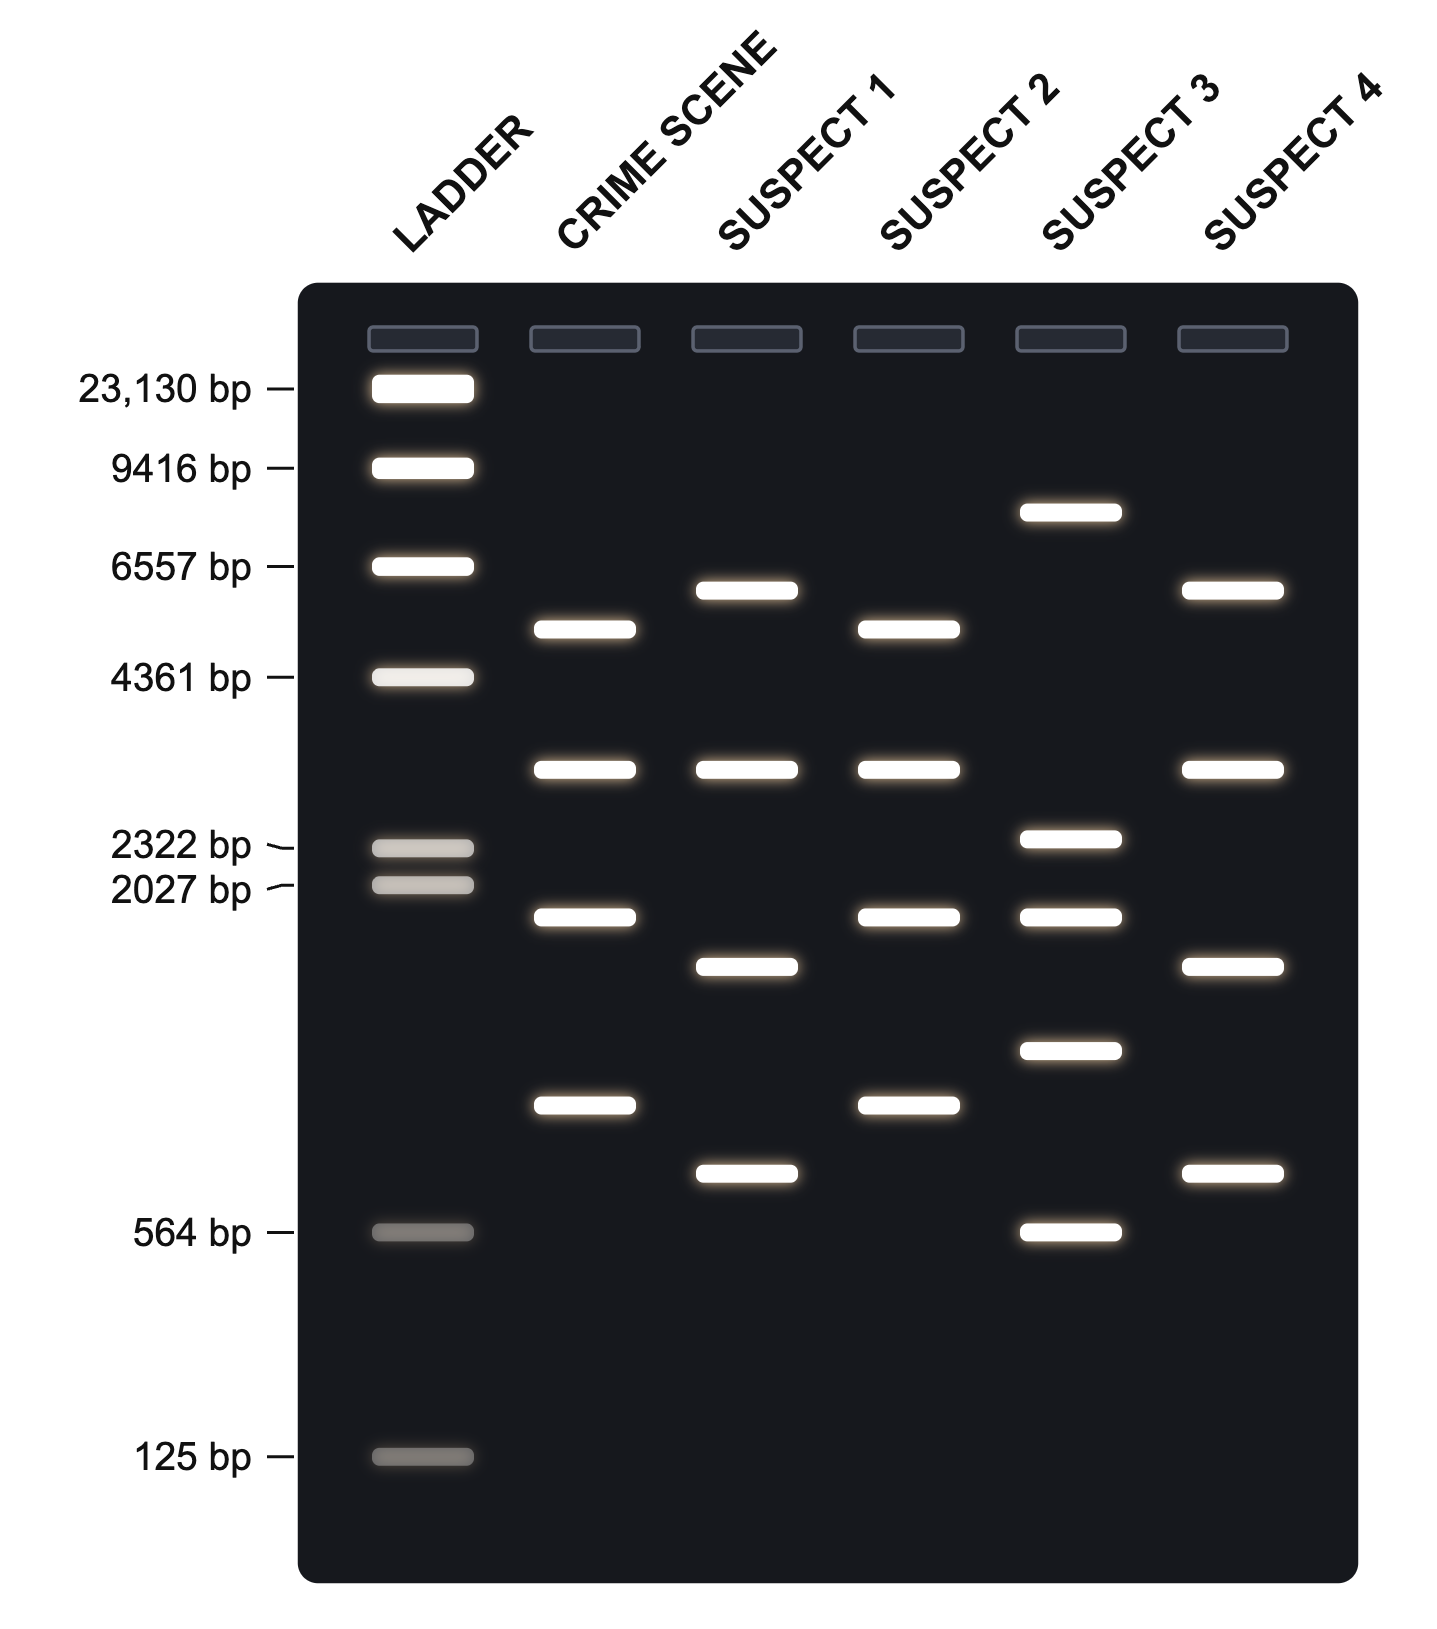
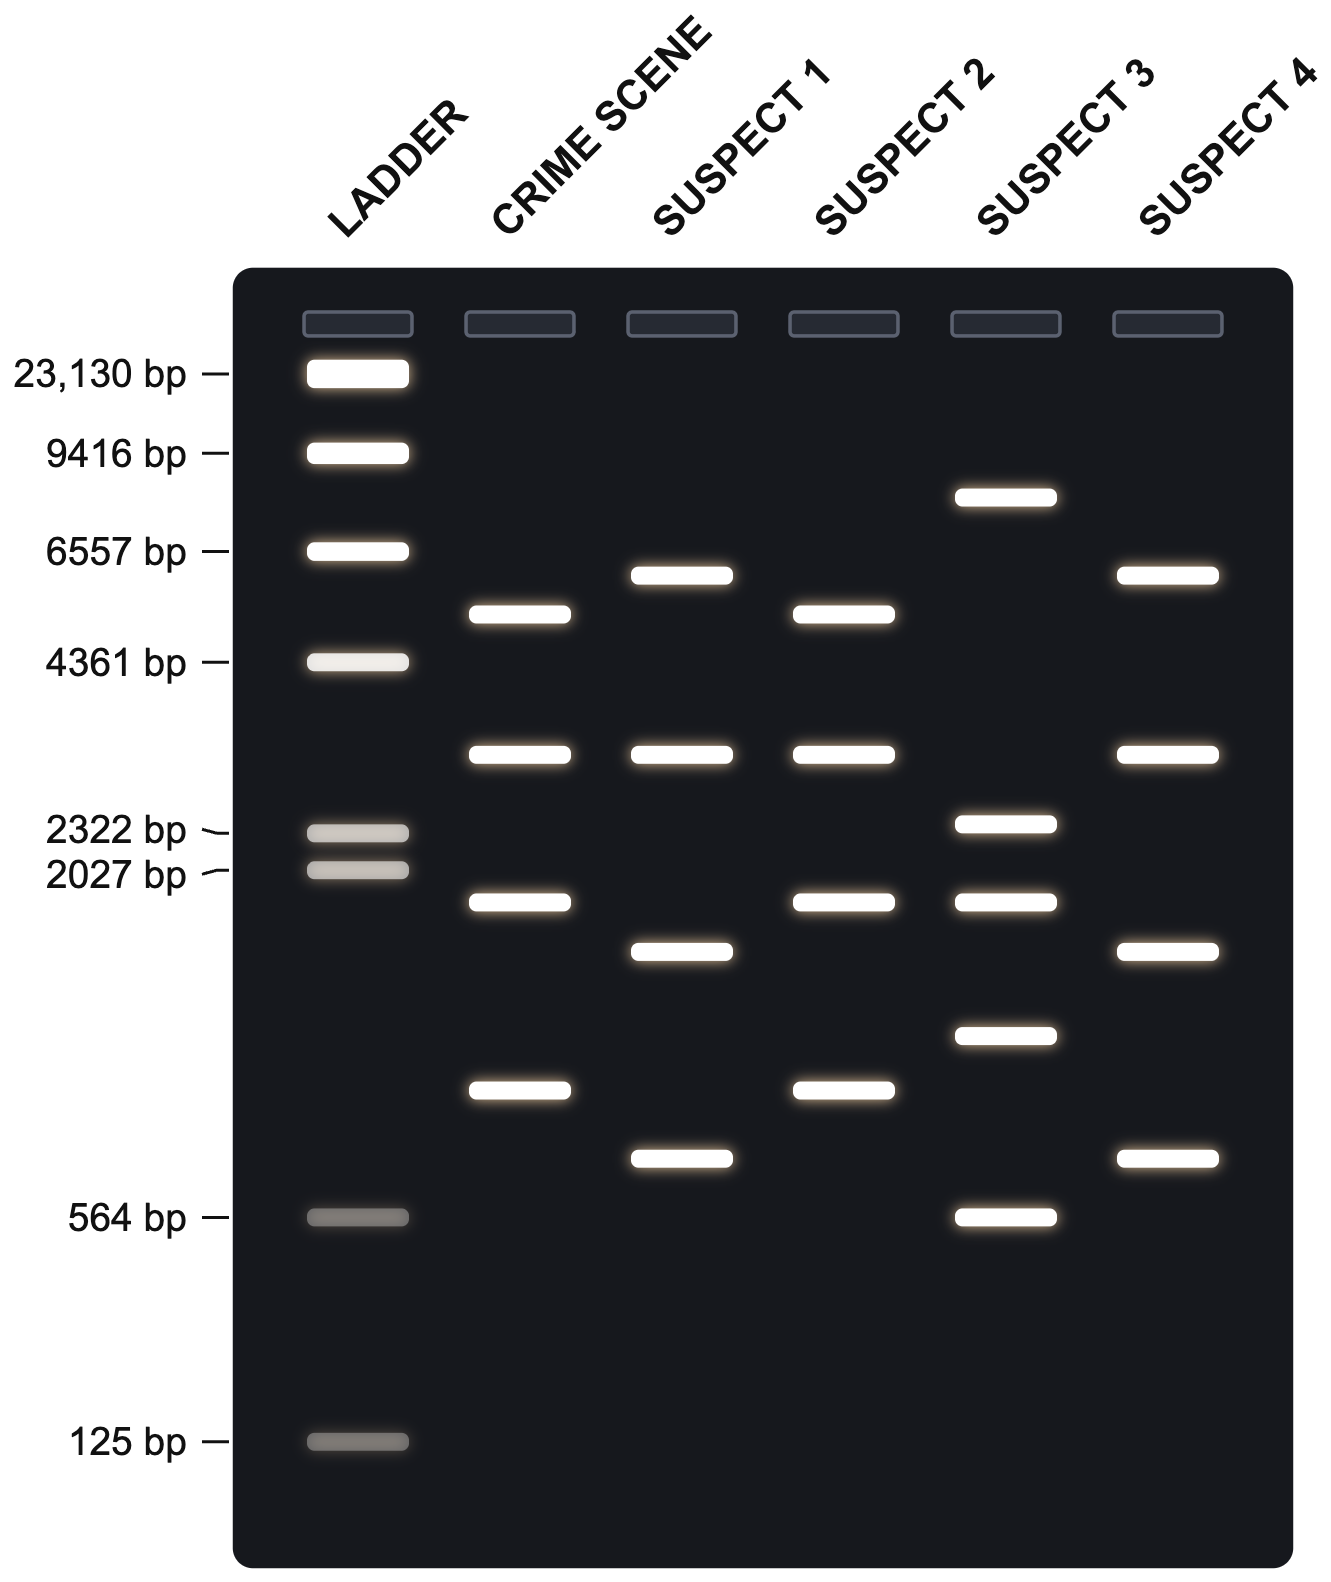
Jeopardy: fill-screen layout, tight gel images, ✓/✕ scoring bar
Claude-Session: https://claude.ai/code/session_01JfoEDe3QkExM5ytngnAF7K

diff --git a/dna-atoms-jeopardy.html b/dna-atoms-jeopardy.html
@@ -277,6 +277,39 @@ body.compact footer{padding:4px 10px 8px}
 .rules-enforce li{font-size:clamp(16px,1.25vw,20px);line-height:1.3;color:#eaf0ff;font-weight:550}
 .rules-enforce li b{color:#fff}
 @media(max-width:700px){.rules-enforce ul{grid-template-columns:1fr}}
+
+/* ---- v3: fill the screen, tight image, scoring bar ---- */
+.modal .clue{flex:1 1 auto;min-height:0}
+.modal.is-judging .clue{flex:1 1 auto;min-height:0;gap:0}
+.clue.split{align-items:stretch;grid-template-rows:minmax(0,1fr);height:100%}
+.clue.split .qcol{justify-content:center;height:100%;min-height:0}
+.clue.split .vcol{height:100%;min-height:0;align-items:center;justify-content:center;background:none}
+.clue.split .vcol .reference-gel{height:100%;width:auto;max-width:100%;display:flex;align-items:center;justify-content:center}
+.clue.split .vcol .vis,.clue.split .vcol .reference-gel .vis,.modal.is-judging .clue.split .vcol .vis,.modal.is-judging .clue.split .vcol .reference-gel .vis{width:auto;height:auto;max-width:100%;max-height:100%;border-radius:12px}
+.clue.split .vcol>svg.vis{height:100%;width:auto}
+.clue.split .vcol .reference-gel-fallback{height:100%;display:flex;justify-content:center}
+.clue.split .vcol .reference-gel-fallback>svg.vis{height:100%;width:auto}
+.modal .mbar{margin-top:auto;padding-top:8px}
+.judge-panel{width:100%;max-width:min(1700px,100%);gap:10px;margin:0 auto}
+.sc-head{display:flex;align-items:center;gap:10px;justify-content:center;flex-wrap:wrap;color:#dce6ff;font-weight:700;font-size:clamp(15px,1.3vw,20px)}
+.sc-head .ck{color:#4ade80;font-size:1.2em}
+.sc-all{background:transparent;border:1.5px solid #ffffff55;color:#fff;border-radius:8px;padding:4px 12px;font-weight:700;font-size:14px}
+.sc-row{display:grid;grid-template-columns:repeat(var(--n,4),minmax(0,1fr));gap:12px;width:100%}
+.sc-team{display:grid;grid-template-columns:1fr auto;grid-template-areas:"name delta" "btns btns";align-items:baseline;gap:8px 10px;padding:12px 14px;border-radius:16px;border:3px solid;background:#0a1450;transition:background .12s,border-color .12s}
+.sc-team.is-wrong{border-color:#ff5d73aa}
+.sc-team.is-right{border-color:#34d399;background:#0b3a3a}
+.sc-name{grid-area:name;font:800 clamp(22px,2vw,34px)/1.1 var(--head);overflow:hidden;text-overflow:ellipsis;white-space:nowrap;color:#fff}
+.sc-delta{grid-area:delta;font:800 clamp(26px,2.4vw,40px) var(--head)}
+.is-wrong .sc-delta{color:#ff8da0}.is-right .sc-delta{color:#5af0a8}
+.sc-btns{grid-area:btns;display:grid;grid-template-columns:1fr 1fr;gap:10px}
+.sc-btns button{height:clamp(56px,8vh,84px);border-radius:12px;border:3px solid;font:800 clamp(34px,3.4vw,54px)/1 var(--body);background:transparent;cursor:pointer;transition:background .1s,color .1s}
+.sc-yes{border-color:#34d399;color:#34d399}.sc-no{border-color:#ff5d73;color:#ff5d73}
+.sc-yes[aria-pressed=true]{background:#16a34a;border-color:#16a34a;color:#fff}
+.sc-no[aria-pressed=true]{background:#dc2626;border-color:#dc2626;color:#fff}
+.sc-btns button:hover{filter:brightness(1.2)}
+.sc-apply{align-self:center;font-size:clamp(20px,1.8vw,28px);padding:14px 40px}
+@media(max-width:700px){.sc-row{grid-template-columns:repeat(2,minmax(0,1fr))}}
+.reference-gel-fallback[hidden],.reference-gel .vis[hidden]{display:none!important}
 </style>
 </head>
 <body>
@@ -1460,29 +1493,32 @@ function gradeAll(points,outcomes,meta={}){
   if(changes.some(x=>x.d>0))sfx.correct();else sfx.wrong();
 }
 function showGroupScoring(target,points,label,onFinish,meta={}){
-  const choices=S.teams.map(()=>'blank');
+  const choices=S.teams.map(()=>'wrong');
   target.innerHTML=`<div class="judge-panel">
-    <div class="judge-summary">Check every board against the answer. Tap ✓ or ✕ for each team; unmarked boards count as Blank.</div>
-    <div class="judge-grid" style="--n:${S.teams.length}">${S.teams.map((team,k)=>`<div class="judge-team" data-team="${k}">
-      <div class="judge-team-title"><span>${esc(team.name)}</span><output class="negative">−${points}</output></div>
-      <div class="judge-options">
-        <button type="button" data-decision="correct" aria-pressed="false" aria-label="Correct">✓</button>
-        <button type="button" data-decision="wrong" aria-pressed="false" aria-label="Wrong">✕</button>
-        <button type="button" data-decision="blank" aria-pressed="true" aria-label="Blank">Blank</button>
+    <div class="sc-head"><span>Tap <b class="ck">✓</b> for every correct board. Everyone else loses points.</span>
+      <button type="button" class="sc-all" id="allWrong">Reset all ✕</button><button type="button" class="sc-all" id="allRight">All ✓</button></div>
+    <div class="sc-row" style="--n:${S.teams.length}">${S.teams.map((team,k)=>`<div class="sc-team is-wrong" data-team="${k}">
+      <div class="sc-name">${esc(team.name)}</div>
+      <output class="sc-delta">−${points}</output>
+      <div class="sc-btns">
+        <button type="button" class="sc-yes" data-decision="correct" aria-pressed="false" aria-label="${esc(team.name)} correct">✓</button>
+        <button type="button" class="sc-no" data-decision="wrong" aria-pressed="true" aria-label="${esc(team.name)} wrong">✕</button>
       </div>
     </div>`).join('')}</div>
-    <button class="big" id="gradeCommit">${label}</button>
-    <div class="judge-tip">Correct = +${points} · Wrong, Blank, or Late = −${points}. One click scores every team.</div>
+    <button class="big sc-apply" id="gradeCommit">${label}</button>
   </div>`;
-  target.querySelectorAll('.judge-team').forEach(row=>{
+  const set=(k,v)=>{
+    const row=target.querySelector(`.sc-team[data-team="${k}"]`);choices[k]=v;
+    row.classList.toggle('is-right',v==='correct');row.classList.toggle('is-wrong',v!=='correct');
+    row.querySelectorAll('[data-decision]').forEach(b=>b.setAttribute('aria-pressed',String(b.dataset.decision===v)));
+    row.querySelector('output').textContent=(v==='correct'?'+':'−')+points;
+  };
+  target.querySelectorAll('.sc-team').forEach(row=>{
     const k=+row.dataset.team;
-    row.querySelectorAll('[data-decision]').forEach(button=>button.onclick=()=>{
-      choices[k]=button.dataset.decision;
-      row.querySelectorAll('[data-decision]').forEach(b=>b.setAttribute('aria-pressed',String(b===button)));
-      const o=row.querySelector('output');o.textContent=(choices[k]==='correct'?'+':'−')+points;
-      o.className=choices[k]==='correct'?'positive':'negative';
-    });
+    row.querySelectorAll('[data-decision]').forEach(button=>button.onclick=()=>set(k,button.dataset.decision));
   });
+  target.querySelector('#allRight').onclick=()=>S.teams.forEach((_,k)=>set(k,'correct'));
+  target.querySelector('#allWrong').onclick=()=>S.teams.forEach((_,k)=>set(k,'wrong'));
   target.querySelector('#gradeCommit').onclick=()=>{
     target.querySelector('#gradeCommit').disabled=true;
     gradeAll(points,choices,meta);onFinish();
